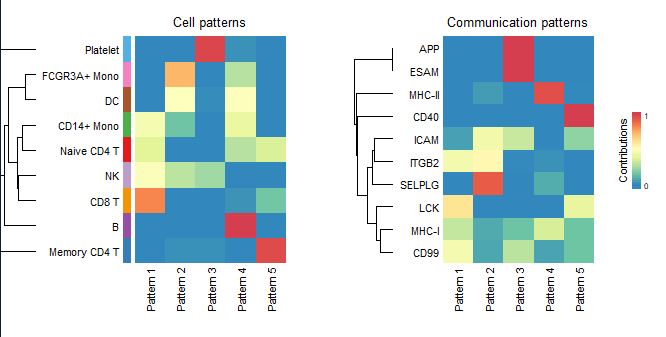
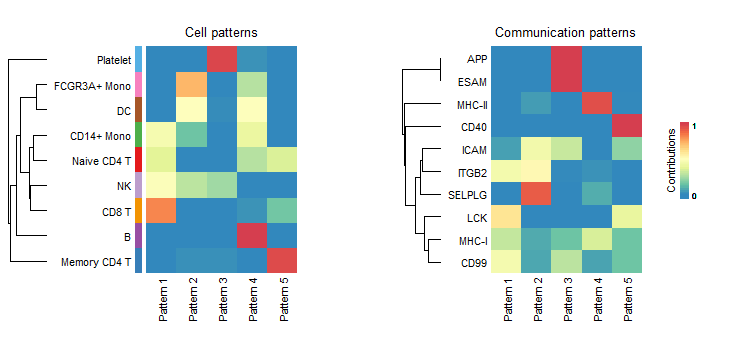
update

diff --git a/content/posts/20220107.html b/content/posts/20220107.html
@@ -66,7 +66,15 @@ head(cellchat@LR$LRsig)</code></pre>
 <pre class="r"><code>cellchat &lt;- netAnalysis_computeCentrality(cellchat,slot.name = &quot;netP&quot;)</code></pre>
 <p>识别分泌细胞外向（outgoing）交流模式和识别目标细胞的传入(incoming)通信模式。<code>pattern</code>参数一般默认为5.</p>
 <pre class="r"><code>cellchat &lt;- identifyCommunicationPatterns(cellchat,slot.name = &quot;netP&quot;,pattern = &quot;outgoing&quot;,k = 5)</code></pre>
+<div class="figure">
+<img src="https://github.com/Farewellznm/myblog/blob/main/content/posts/pic/CellChat/outging.png?raw=true" alt="" />
+<p class="caption">outgoing</p>
+</div>
 <pre class="r"><code>cellchat &lt;- identifyCommunicationPatterns(cellchat,slot.name = &quot;netP&quot;,pattern = &quot;incoming&quot;,k = 5)</code></pre>
+<div class="figure">
+<img src="https://github.com/Farewellznm/myblog/blob/main/content/posts/pic/CellChat/incoming.png?raw=true" alt="" />
+<p class="caption">incoming</p>
+</div>
 <p>结果的可视化</p>
 <pre class="r"><code># Visualization
 levels(cellchat@idents) 
